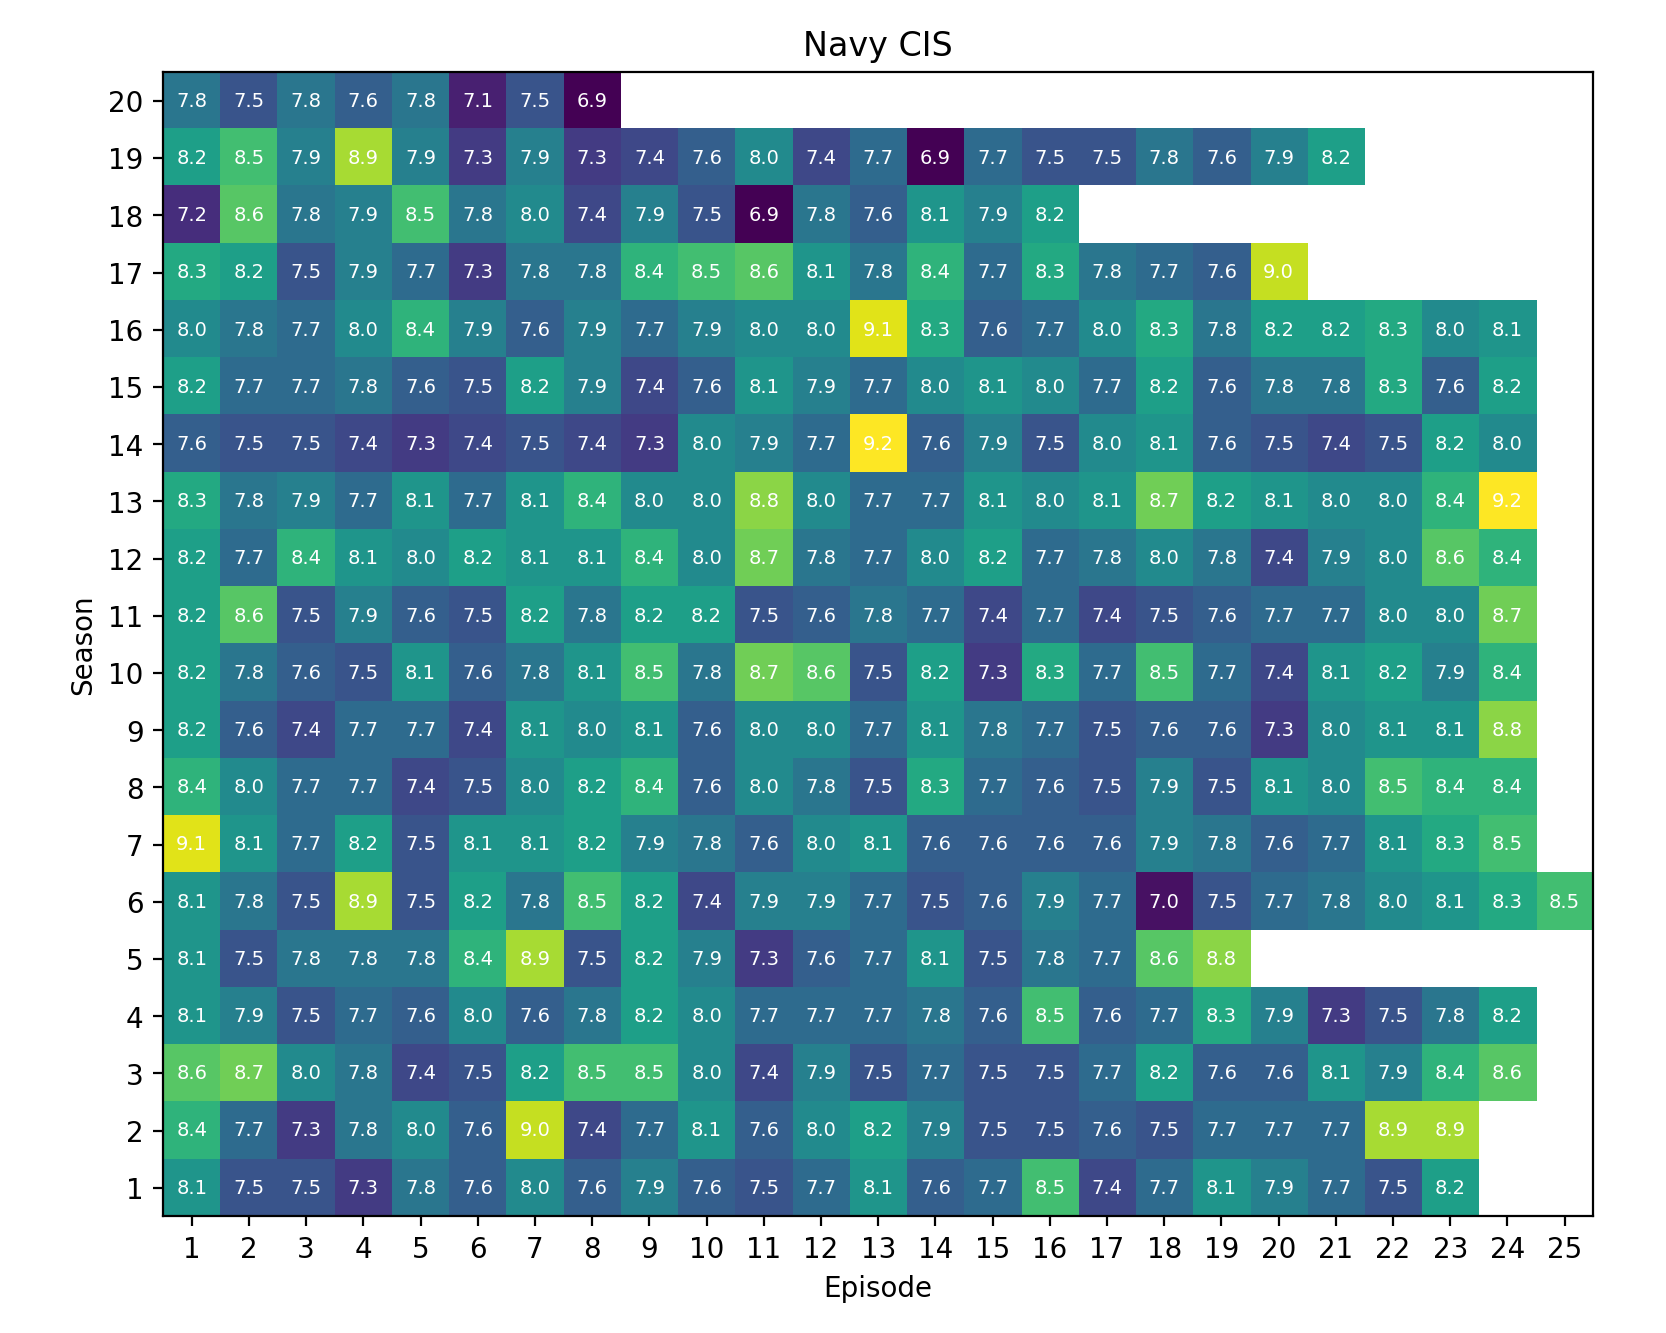
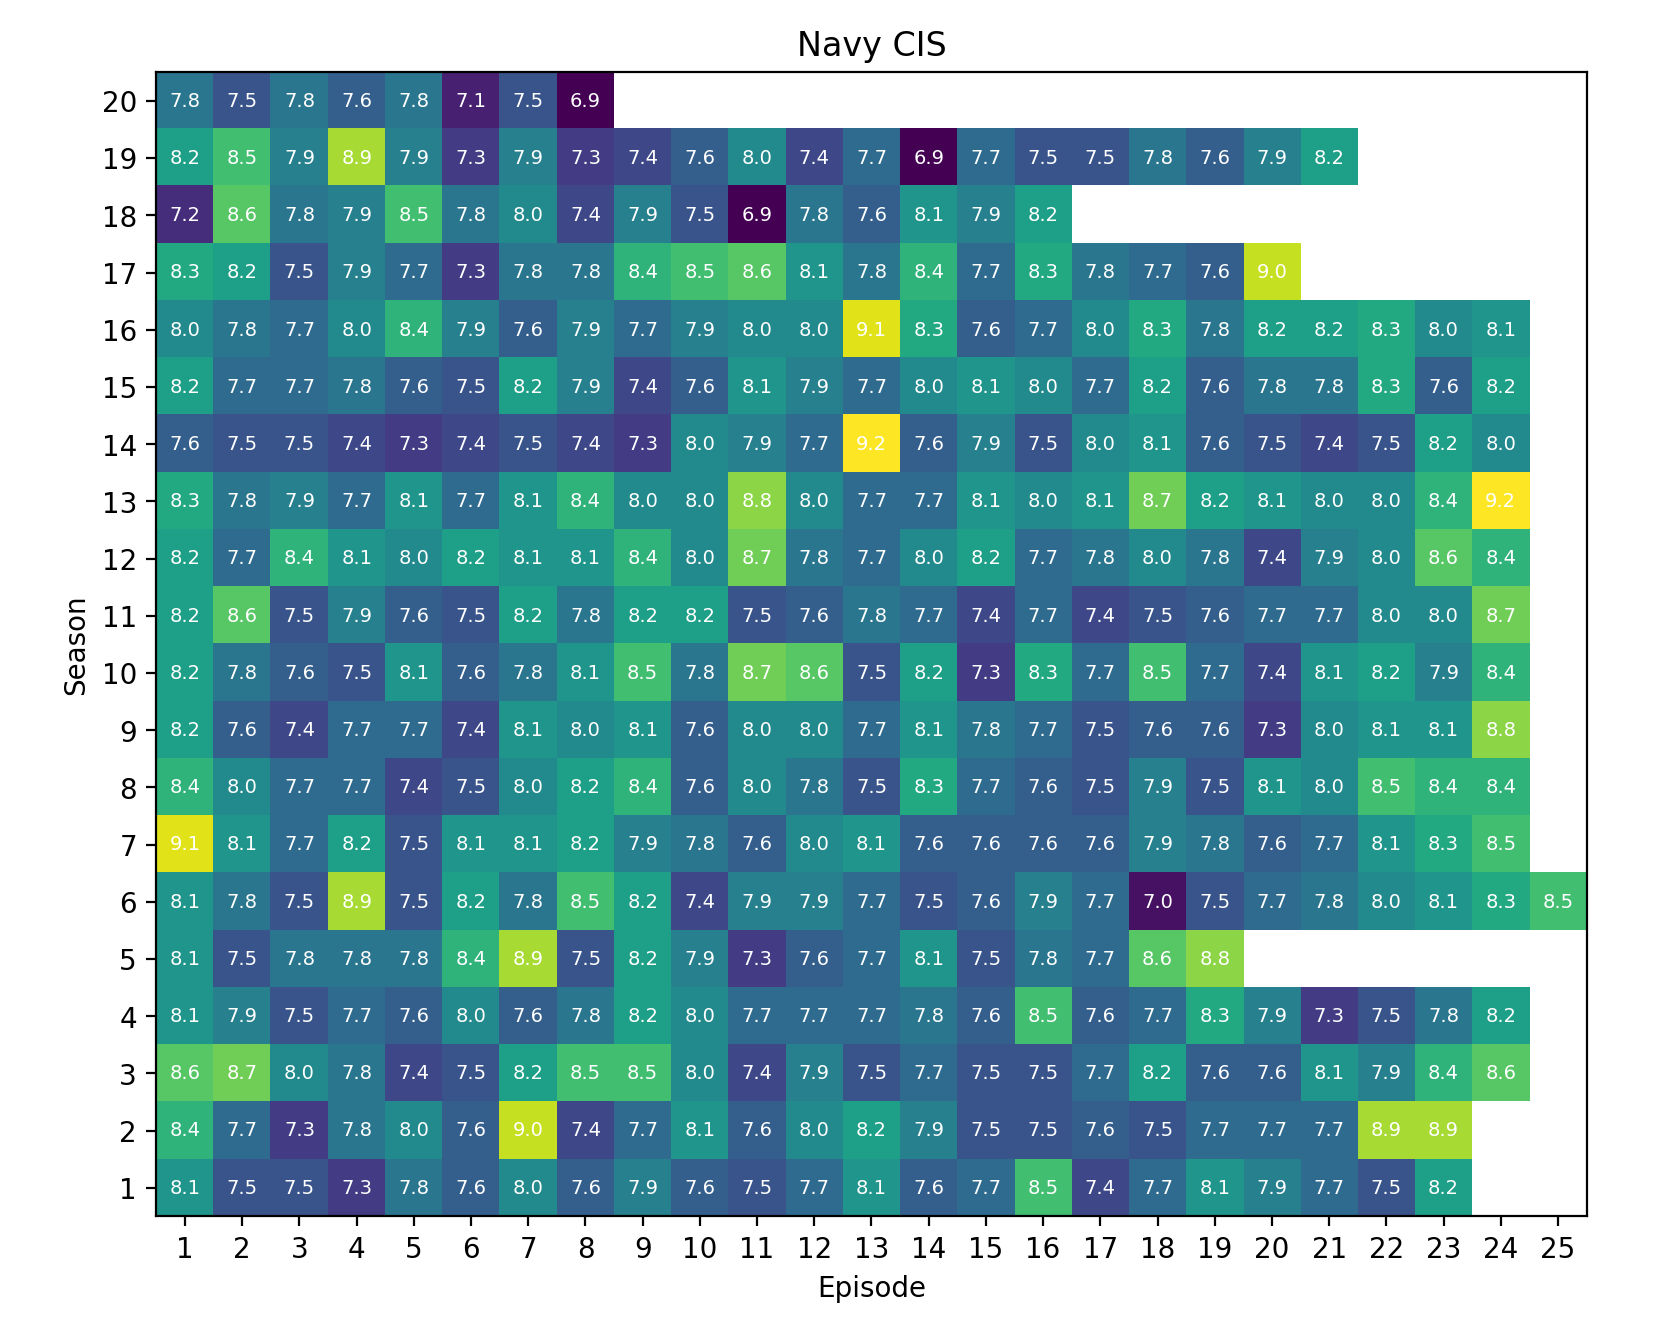
override heatmap images

Changed region(s): [[0.0312, 0.0615, 0.9676, 0.9842], [0.6242, 0.0923, 0.8427, 0.123], [0.4682, 0.0, 0.5618, 0.0615]]

diff --git a/heatmap.py b/heatmap.py
@@ -71,7 +71,7 @@ def heatmap_plot(series: str, show=True, save=True):
 def main():
     show = True
     save = True
-    override = True
+    override = False
 
     # load all series in data folder
     all_series = ['.'.join(s.split('.')[:-1]) for s in os.listdir('data')]
